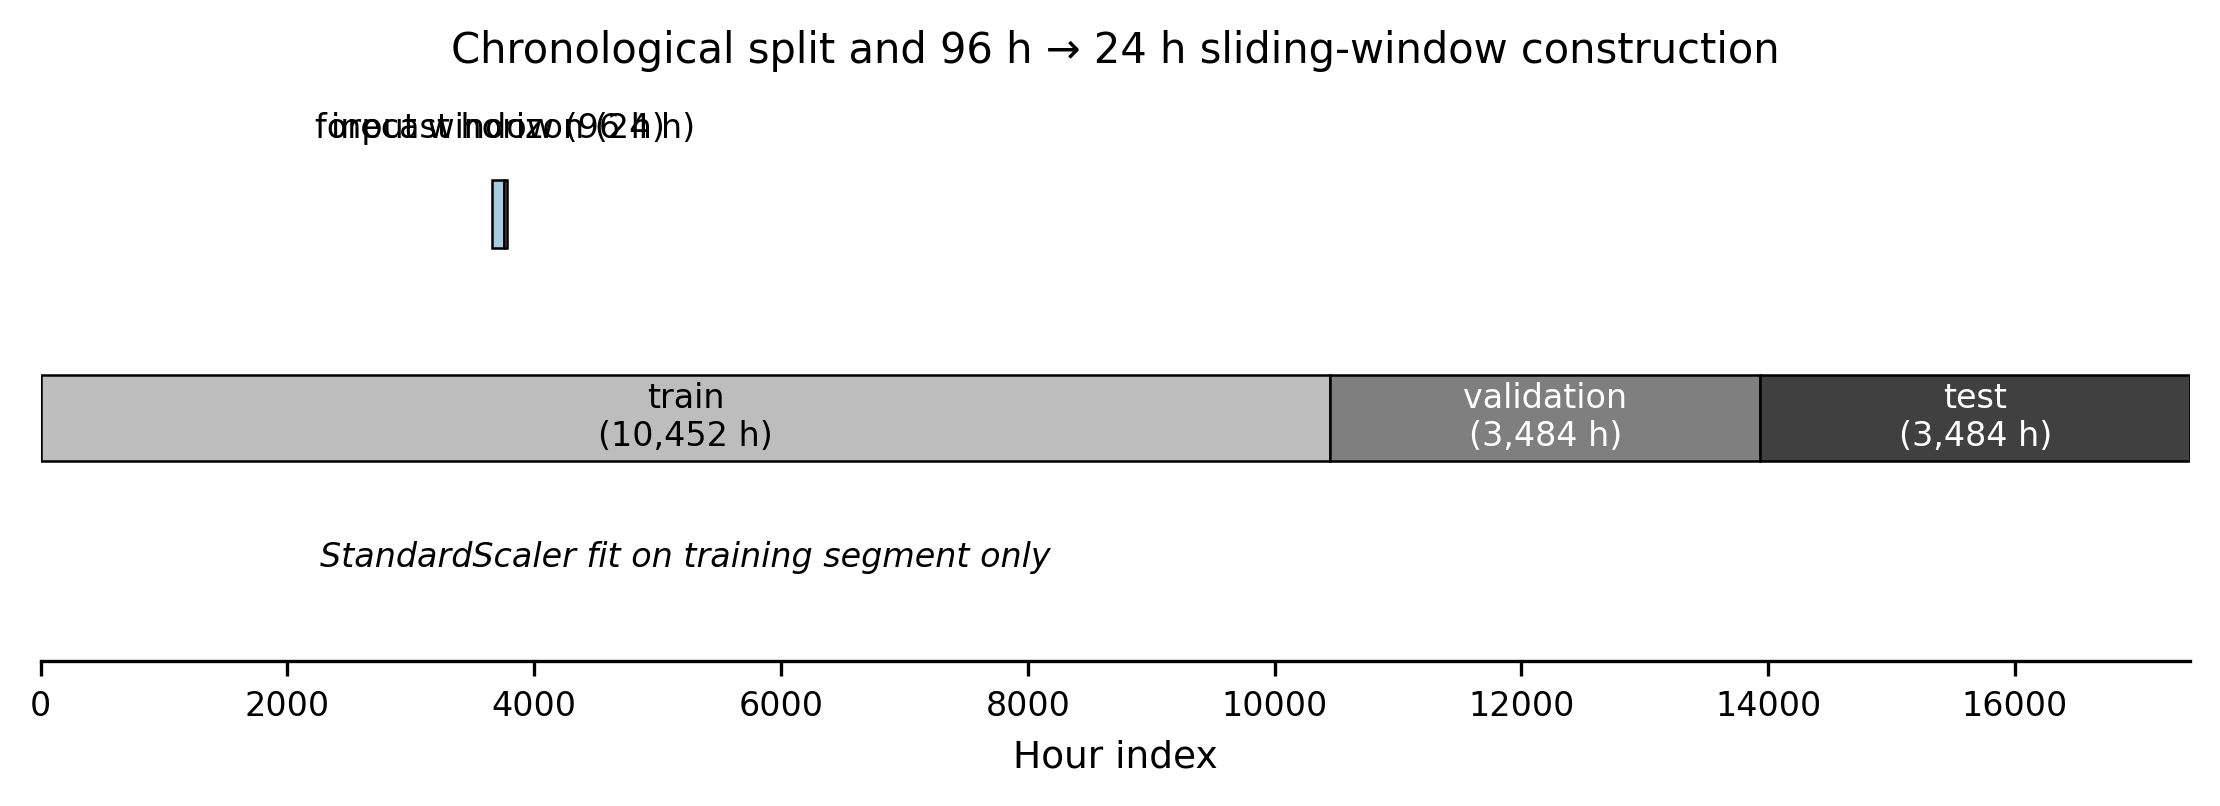
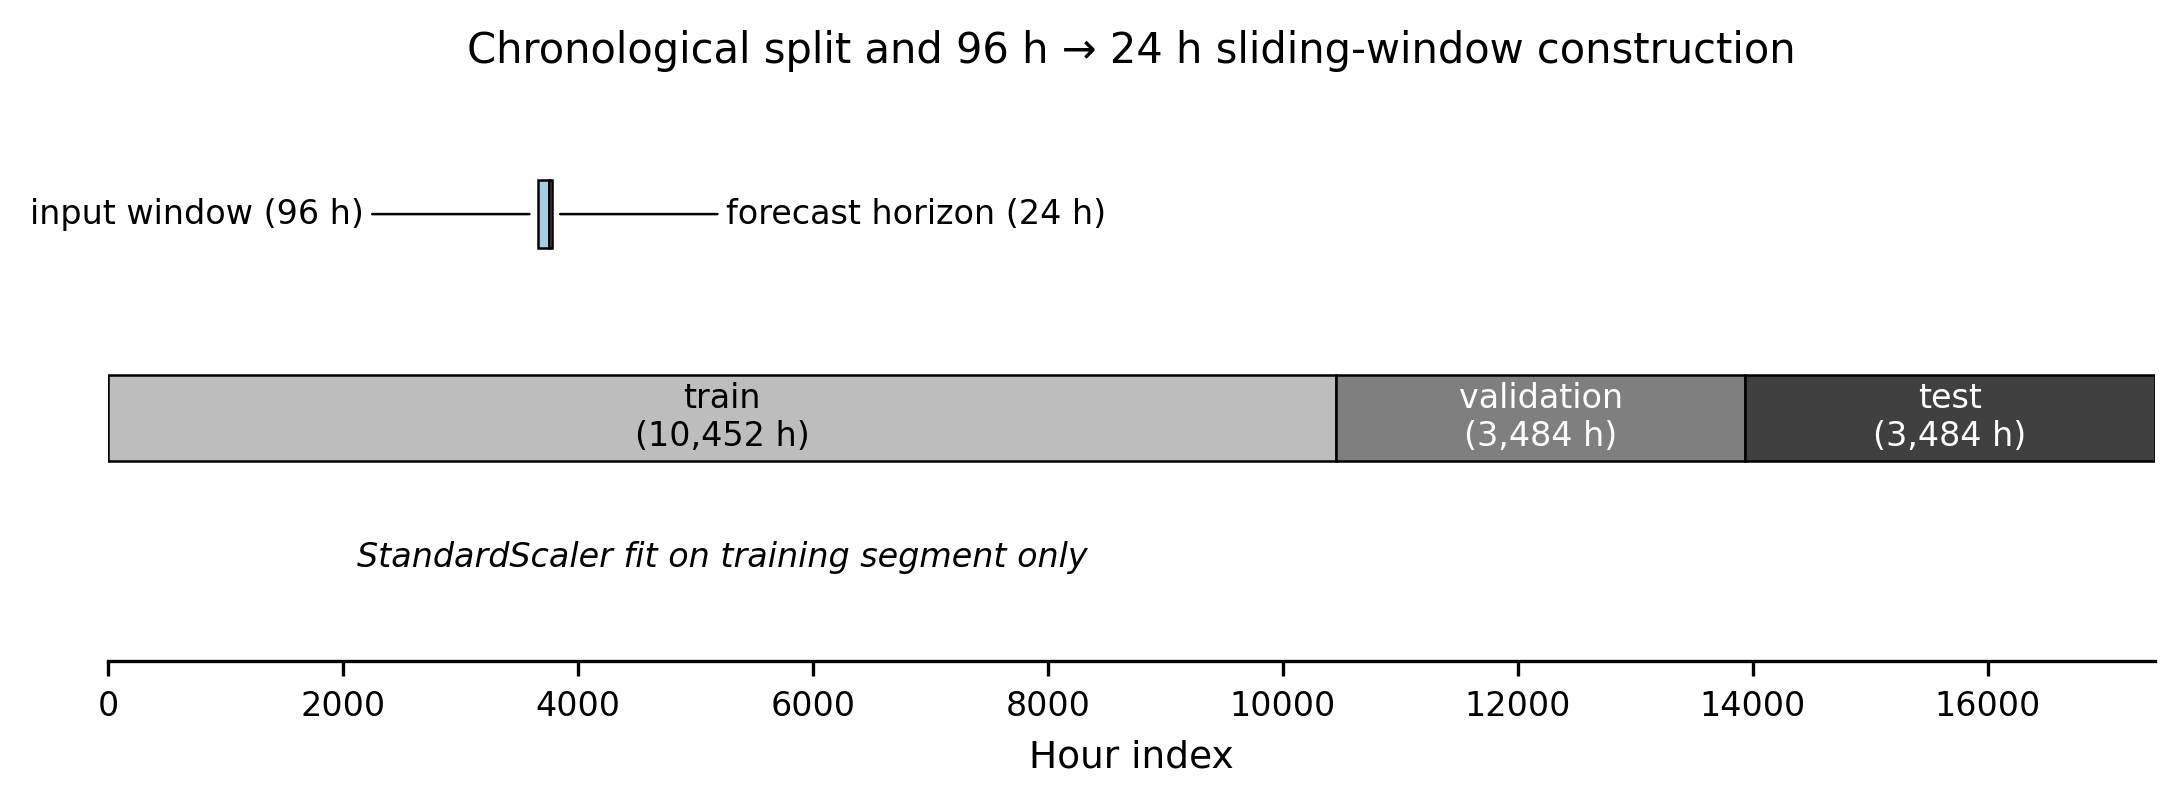
B15: fix Figure 2 label overlap with leader-line annotations

diff --git a/scripts/make_figures.py b/scripts/make_figures.py
@@ -175,17 +175,23 @@ def fig_02_train_test_split() -> None:
         (win_start + INPUT_LEN, win_y), OUTPUT_LEN, win_h,
         facecolor="#fb9a99", edgecolor="black", linewidth=0.6,
     ))
+    label_offset = max(int(n * 0.085), INPUT_LEN * 10)
+    label_y = win_y + win_h / 2
+    arrow_kwargs = dict(arrowstyle="-", color="black", linewidth=0.6,
+                        shrinkA=0, shrinkB=2)
     ax.annotate(
         f"input window ({INPUT_LEN} h)",
-        xy=(win_start + INPUT_LEN / 2, win_y + win_h),
-        xytext=(win_start + INPUT_LEN / 2, win_y + win_h + 0.06),
-        ha="center", va="bottom", fontsize=8,
+        xy=(win_start, label_y),
+        xytext=(win_start - label_offset, label_y),
+        ha="right", va="center", fontsize=8,
+        arrowprops=arrow_kwargs,
     )
     ax.annotate(
         f"forecast horizon ({OUTPUT_LEN} h)",
-        xy=(win_start + INPUT_LEN + OUTPUT_LEN / 2, win_y + win_h),
-        xytext=(win_start + INPUT_LEN + OUTPUT_LEN / 2, win_y + win_h + 0.06),
-        ha="center", va="bottom", fontsize=8,
+        xy=(win_start + INPUT_LEN + OUTPUT_LEN, label_y),
+        xytext=(win_start + INPUT_LEN + OUTPUT_LEN + label_offset, label_y),
+        ha="left", va="center", fontsize=8,
+        arrowprops=arrow_kwargs,
     )
 
     ax.annotate(
